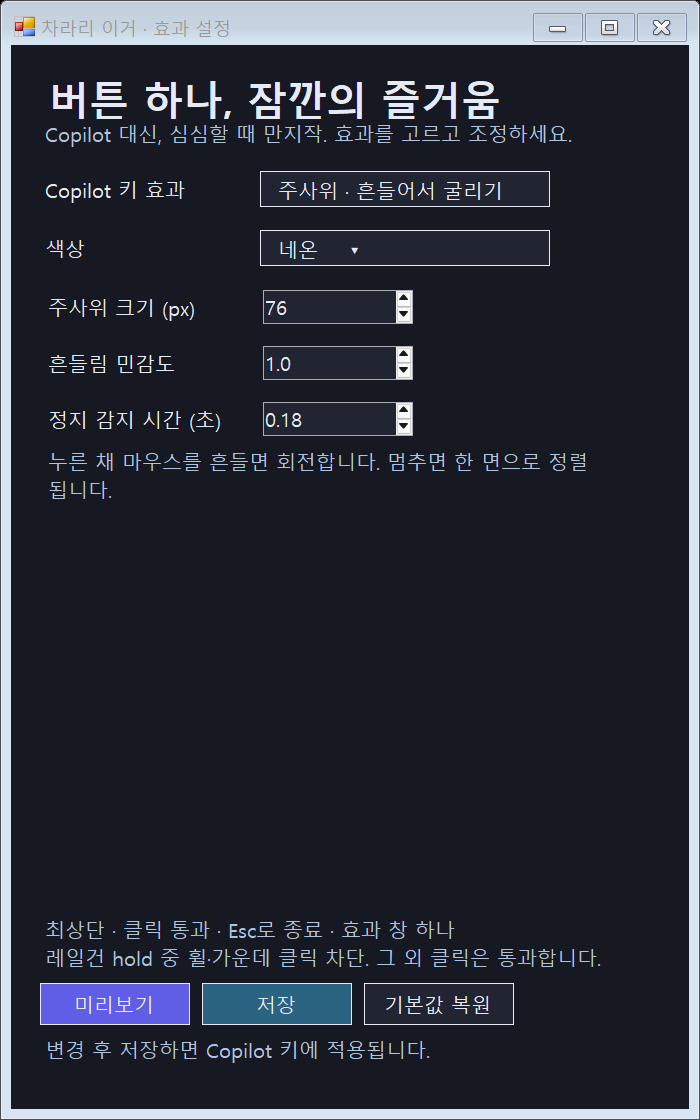
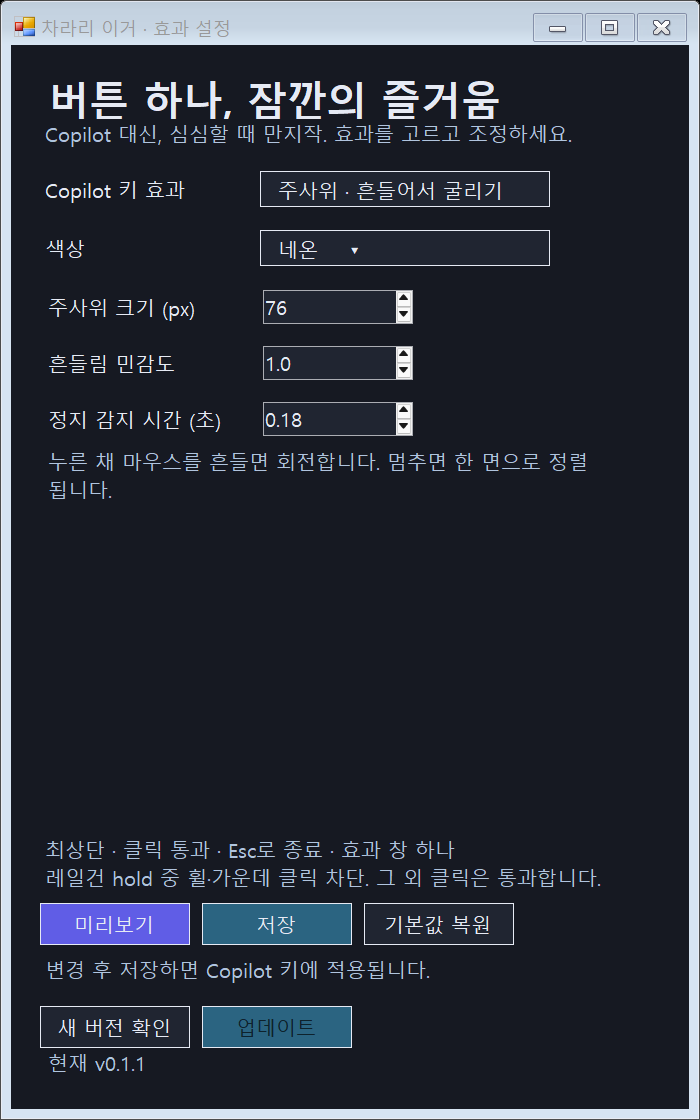
Add verified in-app update and release packaging

Changed region(s): [[0.06, 0.75, 0.84, 0.9688], [0.72, 0.7812, 0.81, 0.8125]]

diff --git a/Update.cs b/Update.cs
@@ -1,0 +1,186 @@
+using System;
+using System.Diagnostics;
+using System.IO;
+using System.IO.Compression;
+using System.Net;
+using System.Reflection;
+using System.Runtime.Serialization;
+using System.Runtime.Serialization.Json;
+using System.Security.Cryptography;
+using System.Text;
+using System.Threading;
+using System.Windows.Forms;
+
+[DataContract] sealed class ReleaseAsset
+{
+    [DataMember(Name="name")] public string Name;
+    [DataMember(Name="browser_download_url")] public string Url;
+    [DataMember(Name="digest")] public string Digest;
+    [DataMember(Name="size")] public long Size;
+}
+[DataContract] sealed class ReleaseInfo
+{
+    [DataMember(Name="tag_name")] public string Tag;
+    [DataMember(Name="draft")] public bool Draft;
+    [DataMember(Name="prerelease")] public bool Prerelease;
+    [DataMember(Name="assets")] public ReleaseAsset[] Assets;
+    public ReleaseAsset Package;
+    public Version Version;
+}
+static class Updates
+{
+    const string Repo="https://github.com/lemoncube7/better-than-copilot-key";
+    const string AssetName="better-than-copilot-key-windows-x64.zip";
+    const long MaxZip=32*1024*1024;
+    static readonly string[] Executables={"차라리 이거.exe","copilot_key.exe"};
+    public static Version Current {get{return Assembly.GetExecutingAssembly().GetName().Version;}}
+    public static string VersionLabel {get{return Current.ToString(3);}}
+    static HttpWebRequest Request(string url)
+    {
+        ServicePointManager.SecurityProtocol=SecurityProtocolType.Tls12;
+        HttpWebRequest request=(HttpWebRequest)WebRequest.Create(url);
+        request.UserAgent="BetterThanCopilotKey/"+VersionLabel;
+        request.Accept="application/vnd.github+json";
+        request.Timeout=20000;request.ReadWriteTimeout=20000;
+        return request;
+    }
+    public static Version ParseVersion(string tag)
+    {
+        Version value;
+        if(tag==null||!tag.StartsWith("v",StringComparison.Ordinal)||!Version.TryParse(tag.Substring(1),out value)||value.Build<0||value.Revision>0)
+            throw new InvalidDataException("배포 버전 형식을 읽지 못했습니다.");
+        return new Version(value.Major,value.Minor,value.Build,0);
+    }
+    public static ReleaseInfo ParseRelease(Stream stream)
+    {
+        ReleaseInfo release=(ReleaseInfo)new DataContractJsonSerializer(typeof(ReleaseInfo)).ReadObject(stream);
+        if(release==null||release.Draft||release.Prerelease)throw new InvalidDataException("정식 배포 정보를 찾지 못했습니다.");
+        release.Version=ParseVersion(release.Tag);
+        if(release.Assets!=null)foreach(ReleaseAsset asset in release.Assets)if(asset.Name==AssetName)release.Package=asset;
+        ReleaseAsset zip=release.Package;
+        string expected=Repo+"/releases/download/"+release.Tag+"/"+AssetName;
+        if(zip==null||zip.Url!=expected||zip.Size<=0||zip.Size>MaxZip||zip.Digest==null||zip.Digest.Length!=71||!zip.Digest.StartsWith("sha256:",StringComparison.Ordinal))
+            throw new InvalidDataException("검증 가능한 Windows 배포 파일을 찾지 못했습니다.");
+        for(int i=7;i<zip.Digest.Length;i++)if(!Uri.IsHexDigit(zip.Digest[i]))throw new InvalidDataException("잘못된 배포 파일 해시입니다.");
+        return release;
+    }
+    public static ReleaseInfo Check()
+    {
+        using(WebResponse response=Request("https://api.github.com/repos/lemoncube7/better-than-copilot-key/releases/latest").GetResponse())
+        using(Stream stream=response.GetResponseStream())return ParseRelease(stream);
+    }
+    static string Hash(string path)
+    {
+        using(SHA256 algorithm=SHA256.Create())using(Stream stream=File.OpenRead(path))
+            return BitConverter.ToString(algorithm.ComputeHash(stream)).Replace("-","").ToLowerInvariant();
+    }
+    public static void ExtractPackage(string zipPath,string destination,string digest)
+    {
+        if("sha256:"+Hash(zipPath)!=digest.ToLowerInvariant())throw new InvalidDataException("다운로드 파일 검증에 실패했습니다. 다시 확인하세요.");
+        Directory.CreateDirectory(destination);
+        using(FileStream file=File.OpenRead(zipPath))using(ZipArchive zip=new ZipArchive(file,ZipArchiveMode.Read))
+        {
+            foreach(string name in Executables)
+            {
+                ZipArchiveEntry selected=null;
+                foreach(ZipArchiveEntry entry in zip.Entries)if(entry.FullName==name){if(selected!=null)throw new InvalidDataException("중복 실행 파일입니다.");selected=entry;}
+                if(selected==null||selected.Length<2||selected.Length>MaxZip)throw new InvalidDataException("업데이트 실행 파일이 없습니다.");
+                string target=Path.Combine(destination,name);
+                using(Stream input=selected.Open())using(FileStream output=new FileStream(target,FileMode.CreateNew))
+                {
+                    byte[] bytes=new byte[65536];long count=0;int n;
+                    while((n=input.Read(bytes,0,bytes.Length))>0){count+=n;if(count>MaxZip)throw new InvalidDataException("실행 파일이 너무 큽니다.");output.Write(bytes,0,n);}
+                }
+                using(FileStream image=File.OpenRead(target))if(image.ReadByte()!=77||image.ReadByte()!=90)throw new InvalidDataException("Windows 실행 파일이 아닙니다.");
+            }
+        }
+    }
+    public static string Download(ReleaseInfo release)
+    {
+        string temp=Path.Combine(Path.GetTempPath(),"BetterThanCopilot-update-"+Guid.NewGuid().ToString("N"));Directory.CreateDirectory(temp);
+        string zip=Path.Combine(temp,"package.zip");
+        using(WebResponse response=Request(release.Package.Url).GetResponse())using(Stream input=response.GetResponseStream())using(FileStream output=File.Create(zip))
+        {
+            byte[] bytes=new byte[65536];long count=0;int n;
+            while((n=input.Read(bytes,0,bytes.Length))>0){count+=n;if(count>MaxZip)throw new InvalidDataException("다운로드 파일이 너무 큽니다.");output.Write(bytes,0,n);}
+            if(count!=release.Package.Size)throw new InvalidDataException("다운로드 파일 크기가 맞지 않습니다.");
+        }
+        string staged=Path.Combine(temp,"files");ExtractPackage(zip,staged,release.Package.Digest);
+        Version candidate=AssemblyName.GetAssemblyName(Path.Combine(staged,Executables[0])).Version;
+        if(candidate!=release.Version)throw new InvalidDataException("실행 파일 버전과 배포 버전이 다릅니다.");
+        File.Delete(zip);return temp;
+    }
+    static string Encode(string value){return Convert.ToBase64String(Encoding.UTF8.GetBytes(value));}
+    public static void LaunchInstaller(string temp)
+    {
+        string helper=Path.Combine(temp,"installer.exe");File.Copy(Application.ExecutablePath,helper);
+        Process.Start(new ProcessStartInfo(helper,"--apply-update "+Encode(temp)+" "+Encode(AppDomain.CurrentDomain.BaseDirectory)+" "+Process.GetCurrentProcess().Id)
+            {UseShellExecute=false,CreateNoWindow=true});
+        DateTime deadline=DateTime.UtcNow.AddSeconds(10);
+        while(!File.Exists(Path.Combine(temp,"installer.ready"))){if(DateTime.UtcNow>deadline)throw new IOException("업데이트 도우미가 준비되지 않았습니다.");Thread.Sleep(50);}
+    }
+    public static void ReplaceFiles(string staged,string target)
+    {
+        string suffix=".before-update-"+Guid.NewGuid().ToString("N");
+        int copied=0,moved=0;
+        try
+        {
+            foreach(string name in Executables)
+            {
+                string path=Path.Combine(target,name);
+                if(!File.Exists(path))throw new FileNotFoundException("설치된 실행 파일이 없습니다.",path);
+                File.Move(path,path+suffix);moved++;
+                File.Copy(Path.Combine(staged,name),path);copied++;
+            }
+        }
+        catch
+        {
+            for(int i=moved-1;i>=0;i--){string path=Path.Combine(target,Executables[i]);if(File.Exists(path))File.Delete(path);File.Move(path+suffix,path);}
+            throw;
+        }
+        for(int i=0;i<copied;i++){try{File.Delete(Path.Combine(target,Executables[i])+suffix);}catch(IOException){}}
+    }
+    public static void Install(string[] args)
+    {
+        string temp=Path.GetFullPath(Encoding.UTF8.GetString(Convert.FromBase64String(args[1])));
+        string target=Path.GetFullPath(Encoding.UTF8.GetString(Convert.FromBase64String(args[2])));
+        string staged=Path.Combine(temp,"files");string app=Path.Combine(target,Executables[0]);
+        Process parent=Process.GetProcessById(Int32.Parse(args[3]));
+        if(!String.Equals(Path.GetFullPath(parent.MainModule.FileName),app,StringComparison.OrdinalIgnoreCase))throw new InvalidOperationException("업데이트 대상 프로세스가 다릅니다.");
+        File.WriteAllText(Path.Combine(temp,"installer.ready"),"ready");
+        if(!parent.WaitForExit(15000))throw new IOException("설정 창이 종료되지 않아 업데이트를 중단했습니다.");
+        try
+        {
+            ReplaceFiles(staged,target);
+            Process.Start(new ProcessStartInfo(app){UseShellExecute=true});
+        }
+        catch(Exception e)
+        {
+            MessageBox.Show("업데이트하지 못했습니다. 기존 버전을 유지합니다.\r\n"+e.Message,"차라리 이거");
+            if(File.Exists(app))Process.Start(new ProcessStartInfo(app){UseShellExecute=true});
+        }
+    }
+    public static void SelfTest(string directory)
+    {
+        Directory.CreateDirectory(directory);
+        if(ParseVersion("v0.2.3")!=new Version(0,2,3,0))throw new Exception("Version parse");
+        string zip=Path.Combine(directory,"test.zip"),stage=Path.Combine(directory,"stage"),target=Path.Combine(directory,"target");
+        using(FileStream file=File.Create(zip))using(ZipArchive archive=new ZipArchive(file,ZipArchiveMode.Create))
+        {
+            foreach(string name in Executables){using(Stream stream=archive.CreateEntry(name).Open()){byte[] data=Encoding.UTF8.GetBytes("MZnew-"+name);stream.Write(data,0,data.Length);}}
+            using(Stream stream=archive.CreateEntry("../escape.txt").Open())stream.WriteByte(42);
+            using(Stream stream=archive.CreateEntry("settings.json").Open())stream.WriteByte(42);
+        }
+        ExtractPackage(zip,stage,"sha256:"+Hash(zip));
+        if(File.Exists(Path.Combine(directory,"escape.txt"))||File.Exists(Path.Combine(stage,"settings.json")))throw new Exception("ZIP allowlist");
+        bool rejected=false;try{ExtractPackage(zip,Path.Combine(directory,"bad"),"sha256:"+new string('0',64));}catch(InvalidDataException){rejected=true;}if(!rejected)throw new Exception("Digest check");
+        Directory.CreateDirectory(target);File.WriteAllText(Path.Combine(target,"settings.json"),"personal");
+        foreach(string name in Executables)File.WriteAllText(Path.Combine(target,name),"old-"+name);
+        File.Delete(Path.Combine(stage,Executables[1]));
+        rejected=false;try{ReplaceFiles(stage,target);}catch(FileNotFoundException){rejected=true;}
+        if(!rejected||File.ReadAllText(Path.Combine(target,Executables[0]))!="old-"+Executables[0]||File.ReadAllText(Path.Combine(target,Executables[1]))!="old-"+Executables[1])throw new Exception("Rollback");
+        File.WriteAllText(Path.Combine(stage,Executables[1]),"MZnew");ReplaceFiles(stage,target);
+        if(File.ReadAllText(Path.Combine(target,"settings.json"))!="personal"||File.ReadAllText(Path.Combine(target,Executables[1]))!="MZnew")throw new Exception("Settings preservation");
+        File.WriteAllText(Path.Combine(directory,"update-test.txt"),"PASS: versions, digest, ZIP allowlist, rollback, settings preservation");
+    }
+}

diff --git a/App.cs b/App.cs
@@ -7,6 +7,7 @@ using System.Runtime.InteropServices;
 using System.Text;
 using System.Threading;
 using System.Windows.Forms;
+using System.Threading.Tasks;
 
 static class App
 {
@@ -22,17 +23,26 @@ static class App
     {
         try
         {
+            if(args.Length==4&&args[0]=="--apply-update"){Updates.Install(args);return;}
+            if(args.Length==2&&args[0]=="--update-test"){Updates.SelfTest(args[1]);return;}
+            if(args.Length==2&&args[0]=="--update-check")
+            {ReleaseInfo release=Updates.Check();File.WriteAllText(args[1],"Current="+Updates.VersionLabel+" Latest="+release.Tag+" Digest="+release.Package.Digest);return;}
+            if(args.Length==2&&args[0]=="--update-install-test")
+            {ReleaseInfo release=Updates.Check();if(release.Version<=Updates.Current)throw new InvalidOperationException("Newer release required");string temp=Updates.Download(release);Updates.LaunchInstaller(temp);File.WriteAllText(args[1],"Installer ready; target="+release.Tag);return;}
             try { SetProcessDpiAwarenessContext(new IntPtr(-4)); } catch (EntryPointNotFoundException) { }
             Application.SetCompatibleTextRenderingDefault(false);
             Application.EnableVisualStyles();
             SettingsWindow window = new SettingsWindow();
             int test = Array.IndexOf(args, "--ui-test");
             if (test >= 0) window.VerifyOnShown(args[test + 1]);
+            else window.CheckUpdatesOnShown();
             Application.Run(window);
         }
         catch (Exception e)
         {
             Environment.ExitCode = 1;
+            if(args.Length==2&&(args[0]=="--update-test"||args[0]=="--update-check"||args[0]=="--update-install-test"))
+            {File.WriteAllText(args[1]+".error.txt",e.ToString());return;}
             MessageBox.Show(e.Message, "차라리 이거", MessageBoxButtons.OK, MessageBoxIcon.Error);
         }
     }
@@ -43,6 +53,9 @@ sealed class SettingsWindow : Form
     ChoiceControl fire;
     readonly FlowLayoutPanel controls = new FlowLayoutPanel();
     readonly Label status = new Label();
+    readonly Label updateStatus = new Label();
+    Button checkUpdate,installUpdate;
+    ReleaseInfo availableUpdate;
     EffectSettings settings;
     bool initializing;
     readonly Color bg = Color.FromArgb(22, 25, 34), panel = Color.FromArgb(32, 37, 49), fg = Color.FromArgb(230, 234, 244);
@@ -53,11 +66,12 @@ sealed class SettingsWindow : Form
         StartPosition = FormStartPosition.CenterScreen; BackColor = bg; ForeColor = fg;
         Font = new Font("맑은 고딕", 10); AutoScaleMode = AutoScaleMode.Dpi;
         try { settings = EffectSettings.Load(); } catch (Exception e) { settings = new EffectSettings(); status.Text = "설정을 읽지 못해 기본값을 표시합니다: " + e.Message; }
-        TableLayoutPanel root = new TableLayoutPanel { Dock = DockStyle.Fill, Padding = new Padding(26), ColumnCount = 1, RowCount = 8 };
+        TableLayoutPanel root = new TableLayoutPanel { Dock = DockStyle.Fill, Padding = new Padding(26), ColumnCount = 1, RowCount = 9 };
         root.RowStyles.Add(new RowStyle(SizeType.Absolute, 48)); root.RowStyles.Add(new RowStyle(SizeType.Absolute, 42));
         root.RowStyles.Add(new RowStyle(SizeType.Absolute, 60)); root.RowStyles.Add(new RowStyle(SizeType.Absolute, 55));
         root.RowStyles.Add(new RowStyle(SizeType.Percent, 100)); root.RowStyles.Add(new RowStyle(SizeType.Absolute, 65));
         root.RowStyles.Add(new RowStyle(SizeType.Absolute, 55)); root.RowStyles.Add(new RowStyle(SizeType.Absolute, 48));
+        root.RowStyles.Add(new RowStyle(SizeType.Absolute, 80));
         root.Controls.Add(new Label { Text = "버튼 하나, 잠깐의 즐거움", Font = new Font(Font.FontFamily, 20, FontStyle.Bold), Dock = DockStyle.Fill }, 0, 0);
         root.Controls.Add(new Label { Text = "Copilot 대신, 심심할 때 만지작. 효과를 고르고 조정하세요.", Dock = DockStyle.Fill, ForeColor = Color.LightSteelBlue }, 0, 1);
         ConfigureCombo(effect, new string[] { "색종이 폭죽", "커서 중력장", "별가루 클러스터", "블랙홀 · hold", "진자 · 놓으면 발사", "십자가 섬광 · hold", "레일건 · 휠 충전", "주사위 · 흔들어서 굴리기" });
@@ -77,6 +91,17 @@ sealed class SettingsWindow : Form
         Button reset = Button("기본값 복원", panel);
         buttons.Controls.Add(preview); buttons.Controls.Add(save); buttons.Controls.Add(reset); root.Controls.Add(buttons, 0, 6);
         status.Dock = DockStyle.Fill; status.ForeColor = Color.LightSteelBlue; root.Controls.Add(status, 0, 7);
+        FlowLayoutPanel updateRow = new FlowLayoutPanel {Dock=DockStyle.Fill,WrapContents=true};
+        checkUpdate=Button("새 버전 확인",panel);installUpdate=Button("업데이트",Color.FromArgb(43,100,129));installUpdate.Enabled=false;
+        updateStatus.Text="현재 v"+Updates.VersionLabel;updateStatus.Width=550;updateStatus.Height=28;updateStatus.ForeColor=Color.LightSteelBlue;
+        updateRow.Controls.Add(checkUpdate);updateRow.Controls.Add(installUpdate);updateRow.Controls.Add(updateStatus);root.Controls.Add(updateRow,0,8);
+        checkUpdate.Click+=async delegate {await CheckUpdates();};
+        installUpdate.Click+=async delegate {
+            if(availableUpdate==null)return;
+            installUpdate.Enabled=checkUpdate.Enabled=false;updateStatus.Text="다운로드 및 검증 중…";
+            try {string temp=await Task.Run(delegate{return Updates.Download(availableUpdate);});updateStatus.Text="설정을 보존하며 업데이트 중…";await Task.Run(delegate{Updates.LaunchInstaller(temp);});Application.Exit();}
+            catch(Exception e){updateStatus.Text="업데이트 실패: "+e.Message;checkUpdate.Enabled=installUpdate.Enabled=true;}
+        };
         Controls.Add(root);
         BuildEffectControls();
         effect.SelectedIndexChanged += delegate { settings.Effect = new string[] { "confetti", "gravity", "cluster", "blackhole", "pendulum", "crossflash", "railgun", "dice" }[effect.SelectedIndex]; BuildEffectControls(); status.Text = "변경 후 저장하면 Copilot 키에 적용됩니다."; };
@@ -85,6 +110,16 @@ sealed class SettingsWindow : Form
         save.Click += delegate { try { EffectSettings.Save(settings); status.Text = "저장했습니다. 다음 Copilot 키 실행부터 적용됩니다."; } catch (Exception e) { status.Text = "저장 실패: " + e.Message; } };
         reset.Click += delegate { settings = new EffectSettings(); initializing = true; effect.SelectedIndex = 2; palette.SelectedIndex = 0; initializing = false; BuildEffectControls(); status.Text = "기본값으로 복원했습니다. 저장하면 적용됩니다."; };
         if (status.Text == "") status.Text = "미리보기로 시험한 뒤 저장하세요.";
+    }
+    public void CheckUpdatesOnShown(){Shown+=async delegate {await CheckUpdates();};}
+    async Task CheckUpdates()
+    {
+        checkUpdate.Enabled=installUpdate.Enabled=false;availableUpdate=null;updateStatus.Text="현재 v"+Updates.VersionLabel+" · 새 버전 확인 중…";
+        try {ReleaseInfo release=await Task.Run(delegate{return Updates.Check();});
+            if(release.Version>Updates.Current){availableUpdate=release;installUpdate.Enabled=true;updateStatus.Text="현재 v"+Updates.VersionLabel+" → "+release.Tag+" · 업데이트 가능";}
+            else updateStatus.Text="현재 v"+Updates.VersionLabel+" · 최신 버전입니다.";
+        }catch(Exception e){updateStatus.Text="확인 실패 · 다시 시도할 수 있습니다: "+e.Message;}
+        finally{checkUpdate.Enabled=true;}
     }
     void ConfigureCombo(ChoiceControl box, string[] items)
     {
